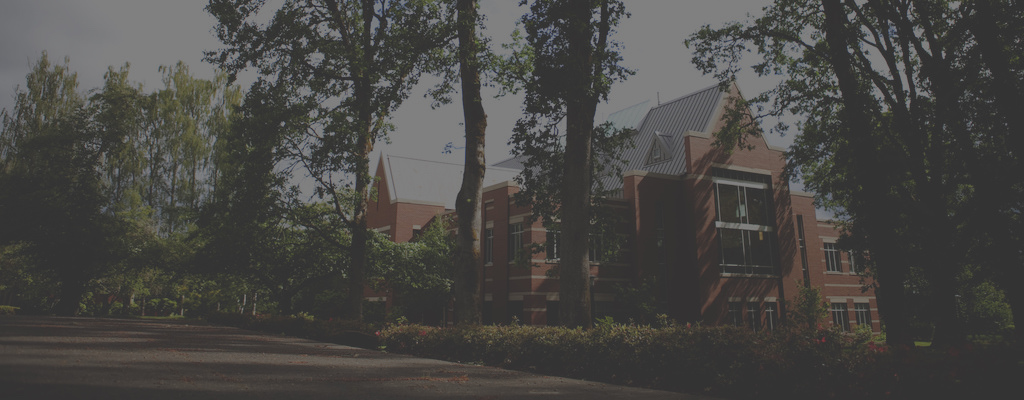
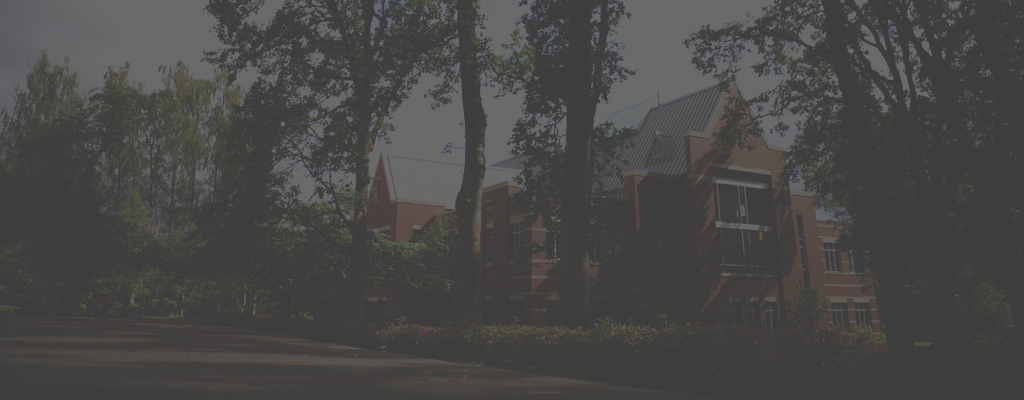
removed carousel

Changed region(s): [[0.3125, 0.42, 0.3438, 0.45]]

diff --git a/nwaps/index.html b/nwaps/index.html
@@ -12,7 +12,7 @@
     <link href="bootstrap.min.css" rel="stylesheet">
 
     <!-- Custom styles for this template -->
-    <link href="carousel.css" rel="stylesheet">
+    <link href="custom.css" rel="stylesheet">
   </head>
   <body>
 
@@ -33,15 +33,10 @@
             <a class="nav-link disabled" href="#">Registration (coming soon)</a>
           </li>
         </ul>
-        <!--
-        <form class="form-inline mt-2 mt-md-0">
-          <input class="form-control mr-sm-2" type="text" placeholder="Search">
-          <button class="btn btn-outline-success my-2 my-sm-0" type="submit">Search</button>
-        </form>
-        -->
       </div>
     </nav>
 
+<!--
     <div id="myCarousel" class="carousel slide" data-ride="carousel">
       <ol class="carousel-indicators">
         <li data-target="#myCarousel" data-slide-to="0" class="active"></li>
@@ -52,7 +47,7 @@
         <div class="carousel-item active">
           <img class="first-slide mx-auto" src="campus.jpg" alt="First slide">
             <div class="carousel-caption d-none d-md-block text-left">
-              <h1>July 1-3, 2017</h1>
+              <h1>June 1-3, 2017</h1>
               <p>Pacific University, Forest Grove Oregon</p>
               <p><a class="btn btn-lg btn-primary" href="https://www.aps.org/units/nws/meetings/meeting.cfm?name=NWS17" role="button">Submit an Abstract</a></p>
             </div>
@@ -84,10 +79,16 @@
       </a>
     </div>
 
+-->
 
-    <!-- Marketing messaging and featurettes
-    ================================================== -->
-    <!-- Wrap the rest of the page in another container to center all the content. -->
+    <div class="container">
+        <div class="jumbotron">
+            <h1>June 1-3, 2017</h1>
+            <p class="lead">Pacific University, Forest Grove Oregon</p>
+            <p><a class="btn btn-lg btn-primary" href="https://www.aps.org/units/nws/meetings/meeting.cfm?name=NWS17" role="button">Submit an Abstract</a>
+            <a class="btn btn-lg btn-primary disabled" href="https://www.aps.org/units/nws/meetings/meeting.cfm?name=NWS17" role="button">Register</a></p>
+        </div>
+    </div>
 
     <div class="container marketing">
 

diff --git a/nwaps/custom.css b/nwaps/custom.css
@@ -11,6 +11,7 @@ body {
 .jumbotron {
     background-image: url("campus.jpg");
     background-size: cover;
+    color: #fff;
 }
 
 /* MARKETING CONTENT
